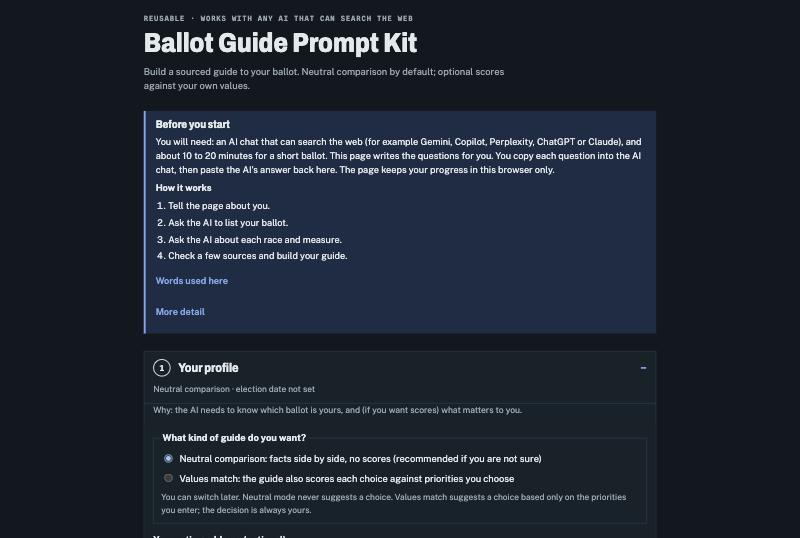
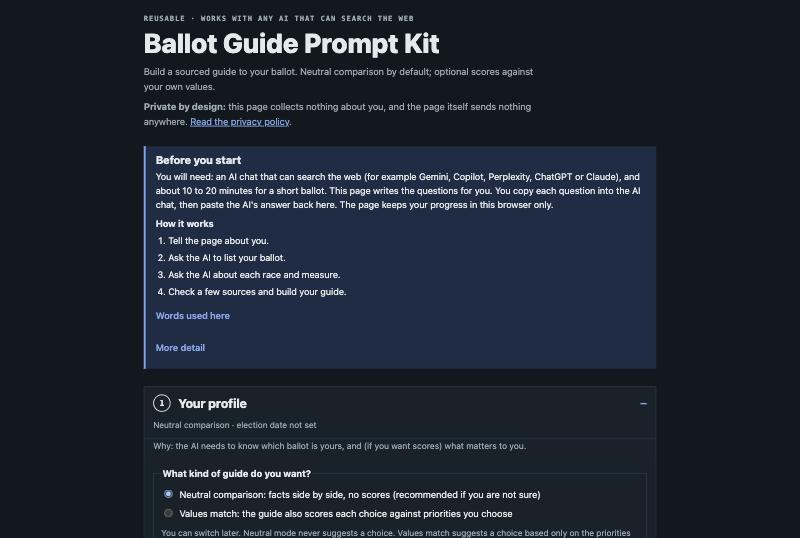
Add a privacy policy to the web kit, enforced by the browser
- Privacy section and header notice: the page collects nothing, sets no
  cookies, has no analytics or server; progress is saved only in this
  browser until "Start over"; the address and the ballot answer (and its
  double-check reply) are never saved; text leaves only when the user
  pastes it into an AI chat.
- Removed Google Fonts (system fonts) so the page loads nothing from
  other sites; a Content-Security-Policy makes the browser block any
  outside connection.
- check.py requires that policy and fails on absolute URLs that would be
  loaded (src, srcset, href outside links, action, poster, data, ping,
  @import, url()).
- README, SECURITY.md and the screenshot updated to match.

Reviewer: VERDICT: PASS (wording and guard fixes from the review applied)

Changed region(s): [[0.1562, 0.0297, 0.8438, 1.0]]

diff --git a/docs/index.html b/docs/index.html
@@ -3,19 +3,18 @@
 <head>
 <meta charset="utf-8">
 <meta name="viewport" content="width=device-width, initial-scale=1">
+<!-- Privacy: the browser blocks every connection to other sites. tools/check.py requires this exact policy. -->
+<meta http-equiv="Content-Security-Policy" content="default-src 'none'; script-src 'unsafe-inline'; style-src 'unsafe-inline'; img-src 'self' data:; connect-src 'none'; form-action 'none'; base-uri 'none'">
 <title>Ballot Guide Prompt Kit</title>
 <meta name="description" content="Free copy-and-paste prompts that help any AI chat with web search build a personal, sourced voter guide scored against your own values, plus a score calculator that runs in your browser.">
-<link rel="preconnect" href="https://fonts.googleapis.com">
-<link rel="preconnect" href="https://fonts.gstatic.com" crossorigin>
-<link rel="stylesheet" href="https://fonts.googleapis.com/css2?family=Archivo:wdth,wght@75..100,600..800&family=Public+Sans:wght@400;600;700&family=Spline+Sans+Mono:wght@400;600&display=swap">
 <style>
 /* Layout: one reading column. Each step is a numbered card (the order is real) with a copyable prompt block. */
 :root{
   --paper:#f5f7f6; --sheet:#ffffff; --ink:#18242f; --muted:#5a6872; --rule:#d5dde0;
   --pen:#1d55b3; --pen-soft:#e4ecf9; --code:#eef2f1; --warn:#8a4b00; --warn-soft:#fbf0e1;
-  --display:"Archivo","Arial Narrow",system-ui,sans-serif;
-  --body:"Public Sans",system-ui,-apple-system,"Segoe UI",sans-serif;
-  --mono:"Spline Sans Mono",ui-monospace,"SFMono-Regular",Menlo,monospace;
+  --display:system-ui,-apple-system,"Segoe UI","Helvetica Neue",Arial,sans-serif;
+  --body:system-ui,-apple-system,"Segoe UI","Helvetica Neue",Arial,sans-serif;
+  --mono:ui-monospace,"SFMono-Regular",Menlo,Consolas,"Liberation Mono",monospace;
 }
 @media (prefers-color-scheme: dark){:root:not([data-theme="light"]){
   --paper:#11181e; --sheet:#18222a; --ink:#e3e9ec; --muted:#9aa8b1; --rule:#2c3a44; --pen:#7fa8ef; --pen-soft:#1d2c45; --code:#101820; --warn:#f0b766; --warn-soft:#2e2414; color-scheme:dark}}
@@ -24,7 +23,7 @@
 *{box-sizing:border-box}
 body{margin:0;background:var(--paper);color:var(--ink);font:15px/1.55 var(--body);padding-inline:16px;padding-block:24px 56px}
 .wrap{max-width:820px;margin:0 auto;display:flex;flex-direction:column;gap:28px}
-h1,h2{font-family:var(--display);font-stretch:85%;margin:0;line-height:1.1;text-wrap:balance}
+h1,h2{font-family:var(--display);margin:0;line-height:1.1;text-wrap:balance}
 h1{font-size:clamp(1.9rem,6vw,2.7rem);font-weight:800}
 h2{font-size:1.25rem;font-weight:750}
 p{margin:0}
@@ -98,7 +97,7 @@ details.math summary{cursor:pointer;color:var(--pen);font-weight:600}
 .stage-status{order:2;font-size:.84rem;color:var(--muted);flex-basis:100%;overflow-wrap:anywhere}
 .stage .profile{border:0}
 .stage-body{padding:14px;display:flex;flex-direction:column;gap:12px;min-width:0}
-.stage-body h3{font:750 1.02rem/1.2 var(--display);font-stretch:85%;margin:8px 0 0}
+.stage-body h3{font:750 1.02rem/1.2 var(--display);margin:8px 0 0}
 .stage-body label{font-weight:700}
 pre.example{padding:8px 10px;font-size:11.5px;border-left:3px solid var(--rule)}
 .checklist{list-style:none;margin:0;padding:0;display:flex;flex-direction:column;gap:10px}
@@ -134,6 +133,7 @@ footer{font-size:.82rem;color:var(--muted);display:flex;flex-direction:column;ga
   <div class="eyebrow">Reusable · works with any AI that can search the web</div>
   <h1>Ballot Guide Prompt Kit</h1>
   <p class="lede">Build a sourced guide to your ballot. Neutral comparison by default; optional scores against your own values.</p>
+  <p class="lede"><strong>Private by design:</strong> this page collects nothing about you, and the page itself sends nothing anywhere. <a href="#privacy">Read the privacy policy</a>.</p>
 </header>
 
 <div class="how" role="region" aria-labelledby="start-h">
@@ -375,6 +375,19 @@ GAPS: no funder data found</textarea>
 </section>
 </div>
 </details>
+
+<section class="how" id="privacy" aria-labelledby="privacy-h">
+  <h2 id="privacy-h">Privacy</h2>
+  <p><strong>This page collects no information about you.</strong> It has no accounts, no cookies, no analytics or tracking, and no server of its own. Nothing you type is sent to this project or to anyone else by this page.</p>
+  <ul>
+    <li><strong>What stays on your computer:</strong> to keep your progress, your browser saves your profile choices, your race list and the AI answers you paste, in this browser on this device only. It stays until you press <em>Start over</em> or clear this site's data in your browser settings. This page never sends it anywhere.</li>
+    <li><strong>What is never saved:</strong> your address, the AI's answer that lists your ballot, and that answer's double-check reply (both may repeat your address).</li>
+    <li><strong>What leaves your computer, only when you do it:</strong> text you copy and paste into an AI chat. Your address goes only into the ballot-lookup question and its optional double-check. The AI service's own privacy policy covers anything you paste there. Links you open take you to other websites.</li>
+    <li><strong>Hosting:</strong> GitHub Pages serves this page. Like any website host, GitHub receives standard information such as your IP address when the page loads. The page loads nothing from any other site: no fonts, ads or scripts. Your browser enforces this with a security policy built into the page.</li>
+    <li><strong>Clipboard:</strong> the page writes to your clipboard only when you press a copy button. It never reads your clipboard.</li>
+  </ul>
+  <p>Questions or a privacy problem? See the project's <a href="https://github.com/tperkowitz-tech/ballot-guide/blob/main/SECURITY.md">security and privacy policy</a>.</p>
+</section>
 
 <footer>
   <p>Lessons in this kit come from building and reviewing a real 2026 guide. Typical errors were: an amendment vote read as a final vote, candidates matched to the wrong seat in pamphlet text, and an uncontested race shown as contested. A review then found ways to game the score (many weak items, empty records) and web pages that try to give the AI instructions. Steps 0, 5, and 6 now guard against each of these.</p>

diff --git a/tools/page.template.html b/tools/page.template.html
@@ -3,19 +3,18 @@
 <head>
 <meta charset="utf-8">
 <meta name="viewport" content="width=device-width, initial-scale=1">
+<!-- Privacy: the browser blocks every connection to other sites. tools/check.py requires this exact policy. -->
+<meta http-equiv="Content-Security-Policy" content="default-src 'none'; script-src 'unsafe-inline'; style-src 'unsafe-inline'; img-src 'self' data:; connect-src 'none'; form-action 'none'; base-uri 'none'">
 <title>Ballot Guide Prompt Kit</title>
 <meta name="description" content="Free copy-and-paste prompts that help any AI chat with web search build a personal, sourced voter guide scored against your own values, plus a score calculator that runs in your browser.">
-<link rel="preconnect" href="https://fonts.googleapis.com">
-<link rel="preconnect" href="https://fonts.gstatic.com" crossorigin>
-<link rel="stylesheet" href="https://fonts.googleapis.com/css2?family=Archivo:wdth,wght@75..100,600..800&family=Public+Sans:wght@400;600;700&family=Spline+Sans+Mono:wght@400;600&display=swap">
 <style>
 /* Layout: one reading column. Each step is a numbered card (the order is real) with a copyable prompt block. */
 :root{
   --paper:#f5f7f6; --sheet:#ffffff; --ink:#18242f; --muted:#5a6872; --rule:#d5dde0;
   --pen:#1d55b3; --pen-soft:#e4ecf9; --code:#eef2f1; --warn:#8a4b00; --warn-soft:#fbf0e1;
-  --display:"Archivo","Arial Narrow",system-ui,sans-serif;
-  --body:"Public Sans",system-ui,-apple-system,"Segoe UI",sans-serif;
-  --mono:"Spline Sans Mono",ui-monospace,"SFMono-Regular",Menlo,monospace;
+  --display:system-ui,-apple-system,"Segoe UI","Helvetica Neue",Arial,sans-serif;
+  --body:system-ui,-apple-system,"Segoe UI","Helvetica Neue",Arial,sans-serif;
+  --mono:ui-monospace,"SFMono-Regular",Menlo,Consolas,"Liberation Mono",monospace;
 }
 @media (prefers-color-scheme: dark){:root:not([data-theme="light"]){
   --paper:#11181e; --sheet:#18222a; --ink:#e3e9ec; --muted:#9aa8b1; --rule:#2c3a44; --pen:#7fa8ef; --pen-soft:#1d2c45; --code:#101820; --warn:#f0b766; --warn-soft:#2e2414; color-scheme:dark}}
@@ -24,7 +23,7 @@
 *{box-sizing:border-box}
 body{margin:0;background:var(--paper);color:var(--ink);font:15px/1.55 var(--body);padding-inline:16px;padding-block:24px 56px}
 .wrap{max-width:820px;margin:0 auto;display:flex;flex-direction:column;gap:28px}
-h1,h2{font-family:var(--display);font-stretch:85%;margin:0;line-height:1.1;text-wrap:balance}
+h1,h2{font-family:var(--display);margin:0;line-height:1.1;text-wrap:balance}
 h1{font-size:clamp(1.9rem,6vw,2.7rem);font-weight:800}
 h2{font-size:1.25rem;font-weight:750}
 p{margin:0}
@@ -98,7 +97,7 @@ details.math summary{cursor:pointer;color:var(--pen);font-weight:600}
 .stage-status{order:2;font-size:.84rem;color:var(--muted);flex-basis:100%;overflow-wrap:anywhere}
 .stage .profile{border:0}
 .stage-body{padding:14px;display:flex;flex-direction:column;gap:12px;min-width:0}
-.stage-body h3{font:750 1.02rem/1.2 var(--display);font-stretch:85%;margin:8px 0 0}
+.stage-body h3{font:750 1.02rem/1.2 var(--display);margin:8px 0 0}
 .stage-body label{font-weight:700}
 pre.example{padding:8px 10px;font-size:11.5px;border-left:3px solid var(--rule)}
 .checklist{list-style:none;margin:0;padding:0;display:flex;flex-direction:column;gap:10px}
@@ -134,6 +133,7 @@ footer{font-size:.82rem;color:var(--muted);display:flex;flex-direction:column;ga
   <div class="eyebrow">Reusable · works with any AI that can search the web</div>
   <h1>Ballot Guide Prompt Kit</h1>
   <p class="lede">Build a sourced guide to your ballot. Neutral comparison by default; optional scores against your own values.</p>
+  <p class="lede"><strong>Private by design:</strong> this page collects nothing about you, and the page itself sends nothing anywhere. <a href="#privacy">Read the privacy policy</a>.</p>
 </header>
 
 <div class="how" role="region" aria-labelledby="start-h">
@@ -358,6 +358,19 @@ GAPS: no funder data found</textarea>
 </section>
 </div>
 </details>
+
+<section class="how" id="privacy" aria-labelledby="privacy-h">
+  <h2 id="privacy-h">Privacy</h2>
+  <p><strong>This page collects no information about you.</strong> It has no accounts, no cookies, no analytics or tracking, and no server of its own. Nothing you type is sent to this project or to anyone else by this page.</p>
+  <ul>
+    <li><strong>What stays on your computer:</strong> to keep your progress, your browser saves your profile choices, your race list and the AI answers you paste, in this browser on this device only. It stays until you press <em>Start over</em> or clear this site's data in your browser settings. This page never sends it anywhere.</li>
+    <li><strong>What is never saved:</strong> your address, the AI's answer that lists your ballot, and that answer's double-check reply (both may repeat your address).</li>
+    <li><strong>What leaves your computer, only when you do it:</strong> text you copy and paste into an AI chat. Your address goes only into the ballot-lookup question and its optional double-check. The AI service's own privacy policy covers anything you paste there. Links you open take you to other websites.</li>
+    <li><strong>Hosting:</strong> GitHub Pages serves this page. Like any website host, GitHub receives standard information such as your IP address when the page loads. The page loads nothing from any other site: no fonts, ads or scripts. Your browser enforces this with a security policy built into the page.</li>
+    <li><strong>Clipboard:</strong> the page writes to your clipboard only when you press a copy button. It never reads your clipboard.</li>
+  </ul>
+  <p>Questions or a privacy problem? See the project's <a href="https://github.com/tperkowitz-tech/ballot-guide/blob/main/SECURITY.md">security and privacy policy</a>.</p>
+</section>
 
 <footer>
   <p>Lessons in this kit come from building and reviewing a real 2026 guide. Typical errors were: an amendment vote read as a final vote, candidates matched to the wrong seat in pamphlet text, and an uncontested race shown as contested. A review then found ways to game the score (many weak items, empty records) and web pages that try to give the AI instructions. Steps 0, 5, and 6 now guard against each of these.</p>

diff --git a/tools/check.py b/tools/check.py
@@ -41,6 +41,18 @@ def main():
             found.append(name)
     if found:
         raise SystemExit("Personal strings in publishable files: " + ", ".join(found))
+    # The privacy policy promises the page loads nothing from other sites and sends nothing.
+    # The browser enforces it through this exact Content-Security-Policy; the scan catches
+    # absolute URLs that would be loaded rather than merely linked.
+    page = (ROOT / "docs/index.html").read_text()
+    csp = ("default-src 'none'; script-src 'unsafe-inline'; style-src 'unsafe-inline'; "
+           "img-src 'self' data:; connect-src 'none'; form-action 'none'; base-uri 'none'")
+    problems = [] if f'http-equiv="Content-Security-Policy" content="{csp}"' in page else ["missing privacy CSP"]
+    no_links = re.sub(r"<a\b[^>]*>", "", page, flags=re.I)
+    problems += re.findall(r"\b(?:src|srcset|href|action|poster|data|ping)\s*=\s*[\"']?(?:https?:)?//[^\s\"'>]+", no_links, re.I)
+    problems += re.findall(r"(?:@import|url\()\s*[\"']?(?:https?:)?//[^\s\"')]+", page, re.I)
+    if problems:
+        raise SystemExit("docs/index.html breaks the privacy policy: " + ", ".join(problems))
     print("checks passed")
 
 

diff --git a/SECURITY.md b/SECURITY.md
@@ -1,5 +1,5 @@
 # Security and privacy
 
-This project is a static web page plus prompt files. It has no server, accounts or database, and it collects no data. The web kit stores your progress only in your own browser; your address goes only into the ballot-lookup question (and its optional double-check) that you paste into an AI chat yourself. The page loads fonts from Google, so Google and GitHub Pages see visitors' IP addresses, never their ballot address.
+This project is a static web page plus prompt files. It has no server, accounts or database, and it collects no data. The web kit stores your progress only in your own browser; your address goes only into the ballot-lookup question (and its optional double-check) that you paste into an AI chat yourself. The page loads nothing from other sites (no fonts, ads or scripts); GitHub Pages, which hosts it, sees visitors' IP addresses like any website host. "Start over" erases everything saved in the browser.
 
 If you find a way the page could leak personal information, run untrusted code, or mislead voters about how voting works, please report it privately through GitHub's **Report a vulnerability** button on the [Security tab](https://github.com/tperkowitz-tech/ballot-guide/security). Do not open a public issue for these, and do not include anyone's personal details in a report.

diff --git a/README.md b/README.md
@@ -21,7 +21,7 @@ No. Party labels, party platforms and party endorsements are never used as evide
 
 ## Privacy
 
-The web page keeps your progress only in your own browser. Your address goes only into the question that looks up your ballot (and that question's optional double-check), which you paste into an AI chat yourself; that chat service may keep it. Nothing is sent to this project. The page loads fonts from Google, so Google and GitHub, which hosts the page, see a visitor's IP address, never their ballot address.
+The web page keeps your progress only in your own browser, on your own device. Your address goes only into the question that looks up your ballot (and that question's optional double-check), which you paste into an AI chat yourself; that chat service may keep it. The page collects nothing about you, uses no cookies or tracking, and loads nothing from other sites; GitHub, which hosts it, sees visitors' IP addresses like any website host. Press "Start over" to erase everything saved in your browser. Full details are in the [privacy section of the web kit](https://tperkowitz-tech.github.io/ballot-guide/#privacy).
 
 ## Good to know
 
